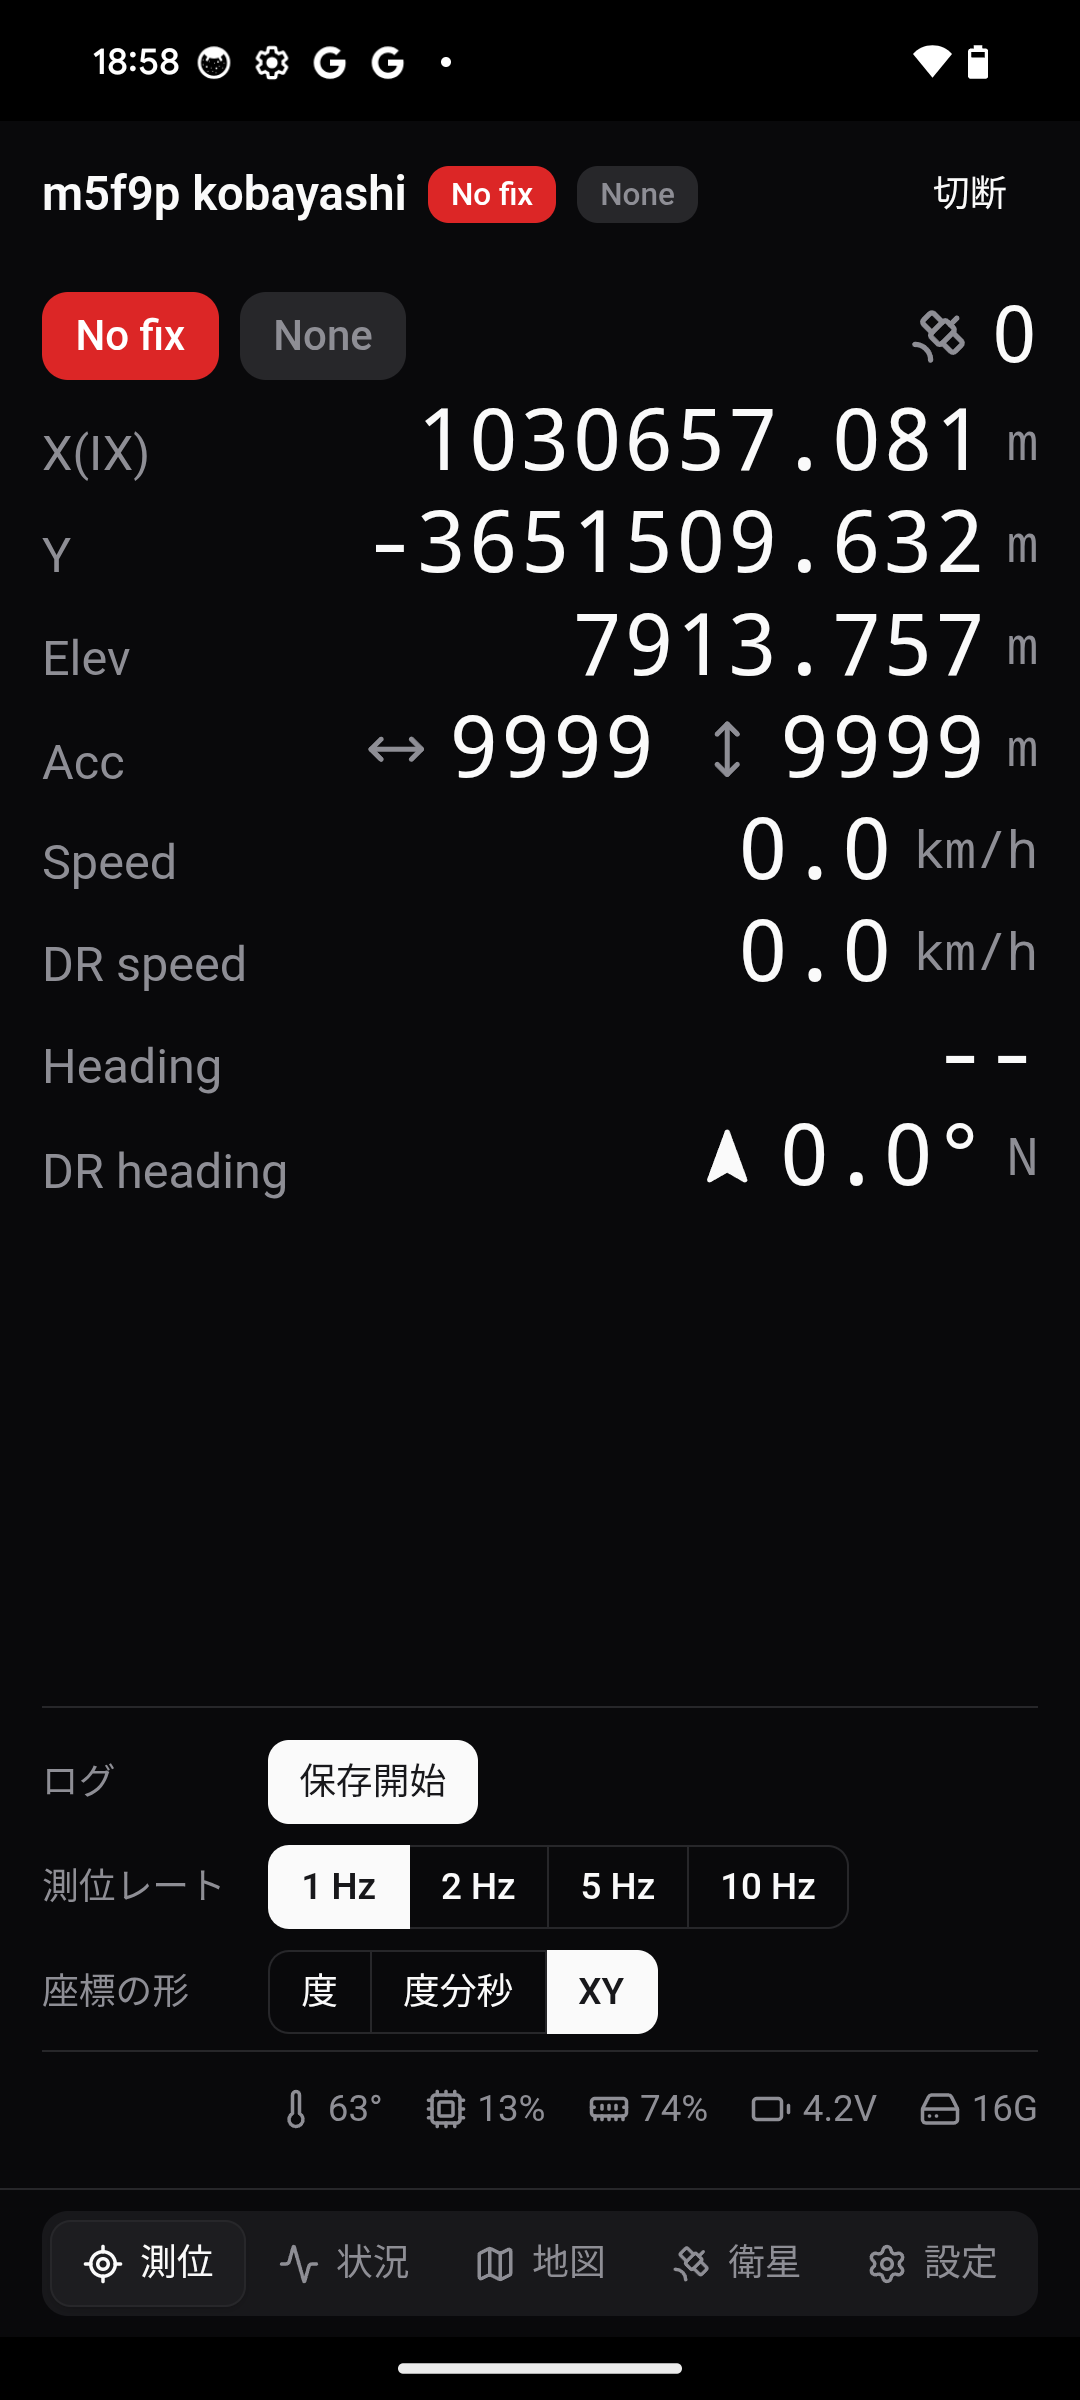
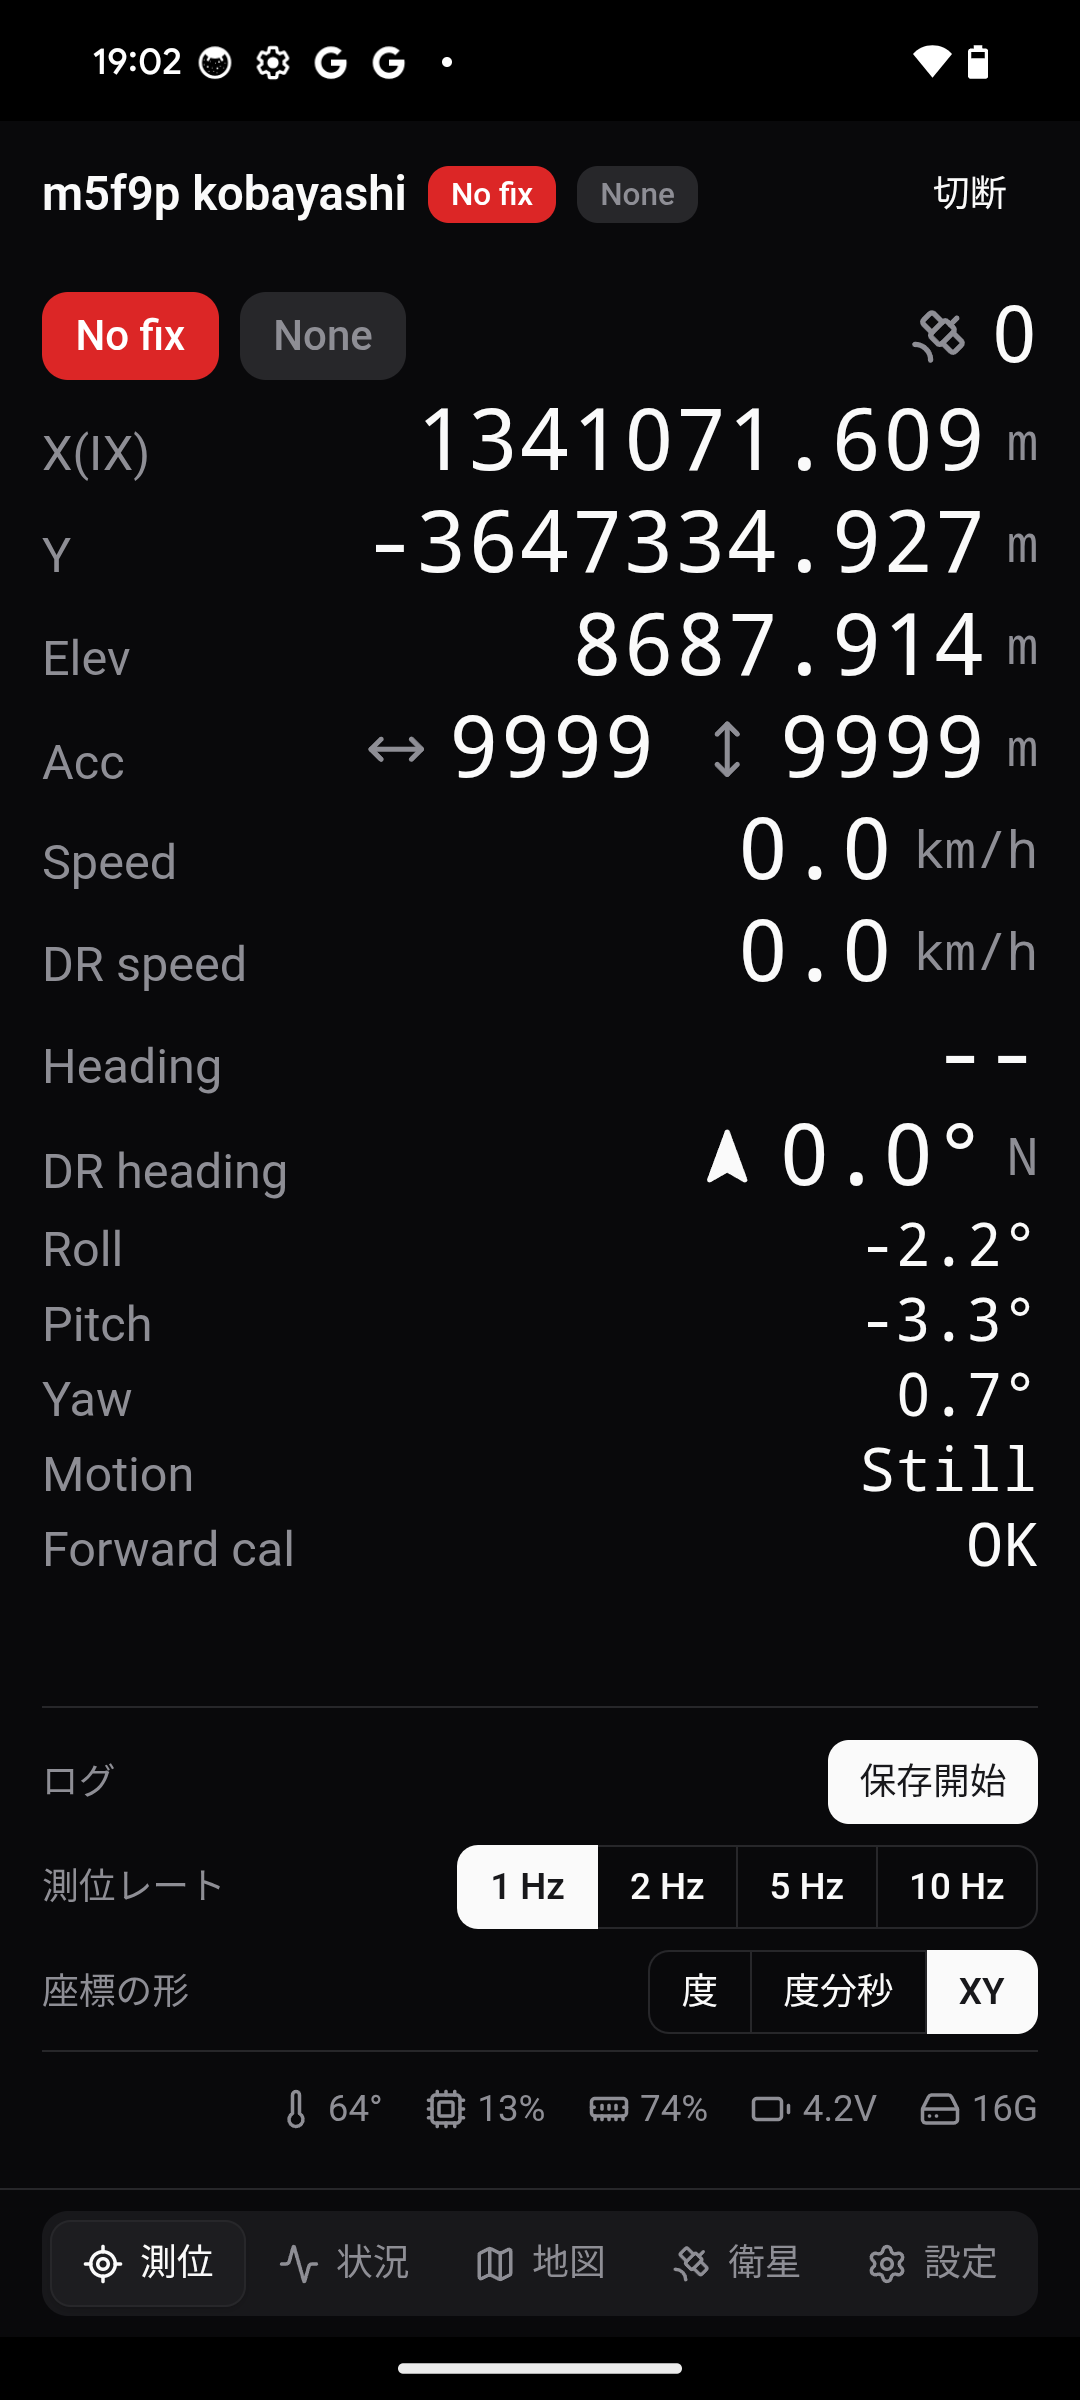
測位タブの IMU の行を戻し（見出しなし）、操作の部品を右寄せにした

diff --git a/web/src/components/LivePage.vue b/web/src/components/LivePage.vue
@@ -1,9 +1,9 @@
 <script setup lang="ts">
 // 測位タブ。本体の画面の Status（src/pages.cpp の drawStatus）と同じ項目を、大きな文字で出す。
-// 屋外で端末を表示器として見る時用。速度、方角、IMU の推測航法（DR）は、本体の画面には無く、ここだけに出す（IMU の姿勢は状況タブ）。
+// 屋外で端末を表示器として見る時用。速度、方角、IMU の推測航法（DR）は、本体の画面には無く、ここだけに出す。
 // 見出しは本体の画面と同じく英語。1行に見出しと値を並べ、値は右寄せ。
 //
-// 下段に操作（ログ保存、測位レート、座標の形）を、ラベル付きの3行で並べる。
+// 下段に操作（ログ保存、測位レート、座標の形）を、ラベル付きの3行で並べる（部品は右寄せ）。
 //
 // 表示している間は、画面が自動で消えないようにする（host.keepScreenOn）。
 import { computed, onUnmounted, watch } from 'vue';
@@ -111,21 +111,35 @@ const degrees = (deg: number) => `${Math.round(deg) % 360}°`;
       </LiveRow>
     </template>
 
-    <!-- 操作: ログ保存、測位レート、座標の形。ラベルと部品を1行ずつ -->
+    <!-- IMU（設定の imu.enable が入っている時だけ届く）。見出しは付けない -->
+    <template v-if="imu">
+      <LiveRow label="Roll" small>{{ imu.roll.toFixed(1) }}°</LiveRow>
+      <LiveRow label="Pitch" small>{{ imu.pitch.toFixed(1) }}°</LiveRow>
+      <LiveRow label="Yaw" small>{{ imu.yaw.toFixed(1) }}°</LiveRow>
+      <LiveRow label="Motion" small>{{ imu.still ? 'Still' : 'Moving' }}</LiveRow>
+      <LiveRow label="Forward cal" small>{{ imu.forwardOk ? 'OK' : `${(imu.forwardWeight ?? 0).toFixed(1)} / 5` }}</LiveRow>
+      <LiveRow v-if="imu.test" label="DR test" small>
+        {{ imu.test.remain }}<span :class="unit">s</span> {{ imu.test.err.toFixed(2) }}<span :class="unit">m (max {{ imu.test.errMax.toFixed(2) }})</span>
+      </LiveRow>
+    </template>
+
+    <!-- 操作: ログ保存、測位レート、座標の形。ラベルを左、部品を右に寄せて1行ずつ -->
     <div class="mt-auto grid grid-cols-[auto_1fr] items-center gap-x-4 gap-y-2 border-t pt-3 text-sm">
       <span class="text-muted-foreground">ログ</span>
-      <div class="flex items-center gap-3">
+      <div class="flex items-center justify-end gap-3">
         <Button v-if="s.save.on" variant="outline" size="sm" @click="rover.setSaving(false)">保存停止</Button>
         <Button v-else size="sm" :disabled="!s.save.ready" @click="rover.setSaving(true)">保存開始</Button>
-        <span class="text-muted-foreground text-xs">{{ !s.save.ready ? 'SDカードが使えません' : s.save.on ? `保存中（${SAVE_FORMATS[s.save.format] || '?'}）` : '' }}</span>
+        <span class="text-muted-foreground order-first text-xs">{{ !s.save.ready ? 'SDカードが使えません' : s.save.on ? `保存中（${SAVE_FORMATS[s.save.format] || '?'}）` : '' }}</span>
       </div>
       <span class="text-muted-foreground">測位レート</span>
-      <SegmentGroup label="測位レート" :options="RATES" :model-value="String(s.rate)" @update:model-value="rover.setRate(Number($event))" />
+      <div class="flex justify-end">
+        <SegmentGroup label="測位レート" :options="RATES" :model-value="String(s.rate)" @update:model-value="rover.setRate(Number($event))" />
+      </div>
       <template v-if="s.dms !== undefined">
         <span class="text-muted-foreground">座標の形</span>
-        <div class="flex flex-wrap items-center gap-3">
-          <SegmentGroup label="座標の形" :options="COORD_FORMATS" :model-value="coordFormat" @update:model-value="setCoordFormat" />
+        <div class="flex flex-wrap items-center justify-end gap-3">
           <span v-if="s.coordXY && !s.zone" class="text-muted-foreground text-xs">平面直角座標系は設定タブで選びます</span>
+          <SegmentGroup label="座標の形" :options="COORD_FORMATS" :model-value="coordFormat" @update:model-value="setCoordFormat" />
         </div>
       </template>
     </div>

diff --git a/docs/screens-android.md b/docs/screens-android.md
@@ -75,7 +75,8 @@ flowchart TD
 - `Elev` / `Alt`: 標高。設定の「標高を表示する」を切ったときと、ジオイド高が届かないときは楕円体高(`Alt`)
 - `Acc`: 精度(左右の矢印が水平、上下の矢印が垂直。m)
 - `Speed`、`DR speed`、`Heading`、`DR heading`: 速度(km/h)と方角(進行方向の角度と16方位、進行方向に向けた矢印)。止まっている間(1 km/h 未満)は、方角を `--` にします。`DR` の付いた行は IMU の推測航法の値で、GNSS の値のすぐ下に並べます(IMU を使うときだけ)。
-- 下段: 操作。`ログ`(`保存開始` / `保存停止`。保存中は形式を表示)、`測位レート`(1 / 2 / 5 / 10 Hz)、`座標の形`(`度` / `度分秒` / `XY`)の 3 行。変えるとすぐに本体に反映されます
+- `Roll`、`Pitch`、`Yaw`(姿勢)、`Motion`(`Still` / `Moving`)、`Forward cal`(車体の前方向の校正)、模擬の途切れの間は `DR test`(残り秒数と誤差)。本体の設定で IMU を使うときだけ
+- 下段: 操作。`ログ`(`保存開始` / `保存停止`。保存中は形式を表示)、`測位レート`(1 / 2 / 5 / 10 Hz)、`座標の形`(`度` / `度分秒` / `XY`)の 3 行(ラベルが左、部品が右)。変えるとすぐに本体に反映されます
 - 最下段: 本体の状態(CPU 温度、CPU 使用率、メモリ使用率、電圧、SD カードの空き)
 
 このタブを開いている間は、画面が自動で消えません。ほかのタブに移るか切断すると、元に戻ります。
